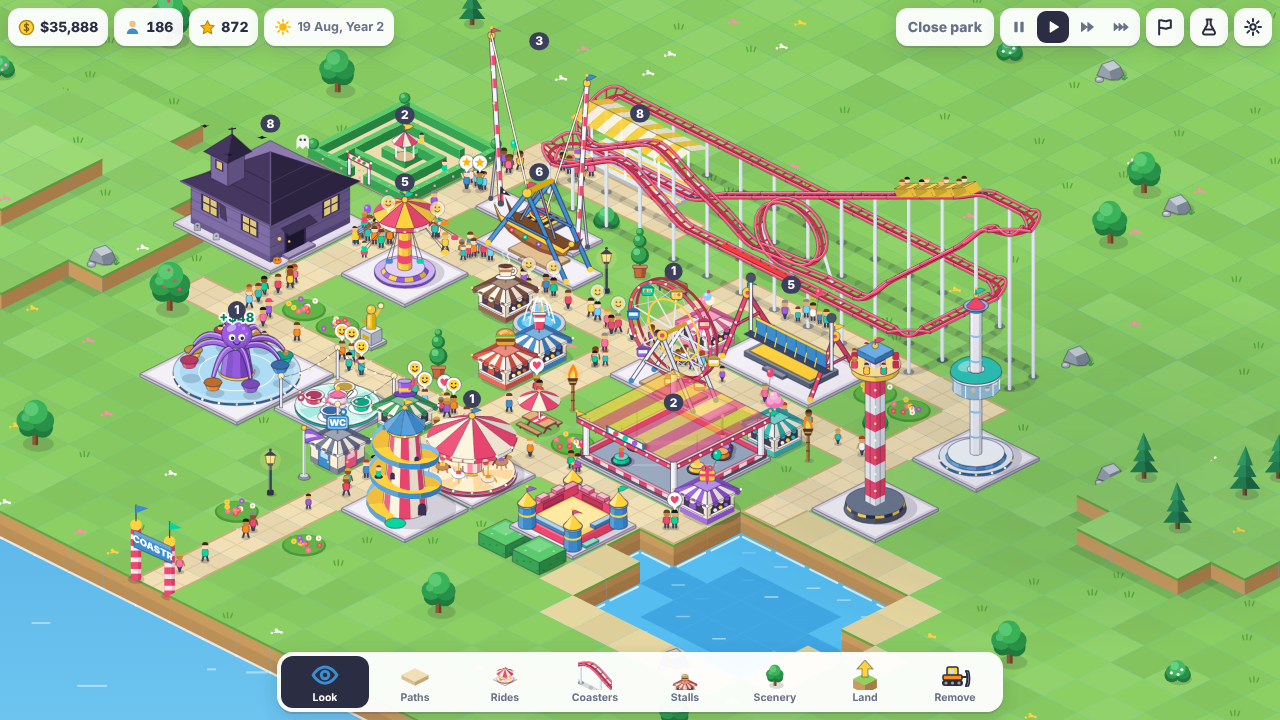
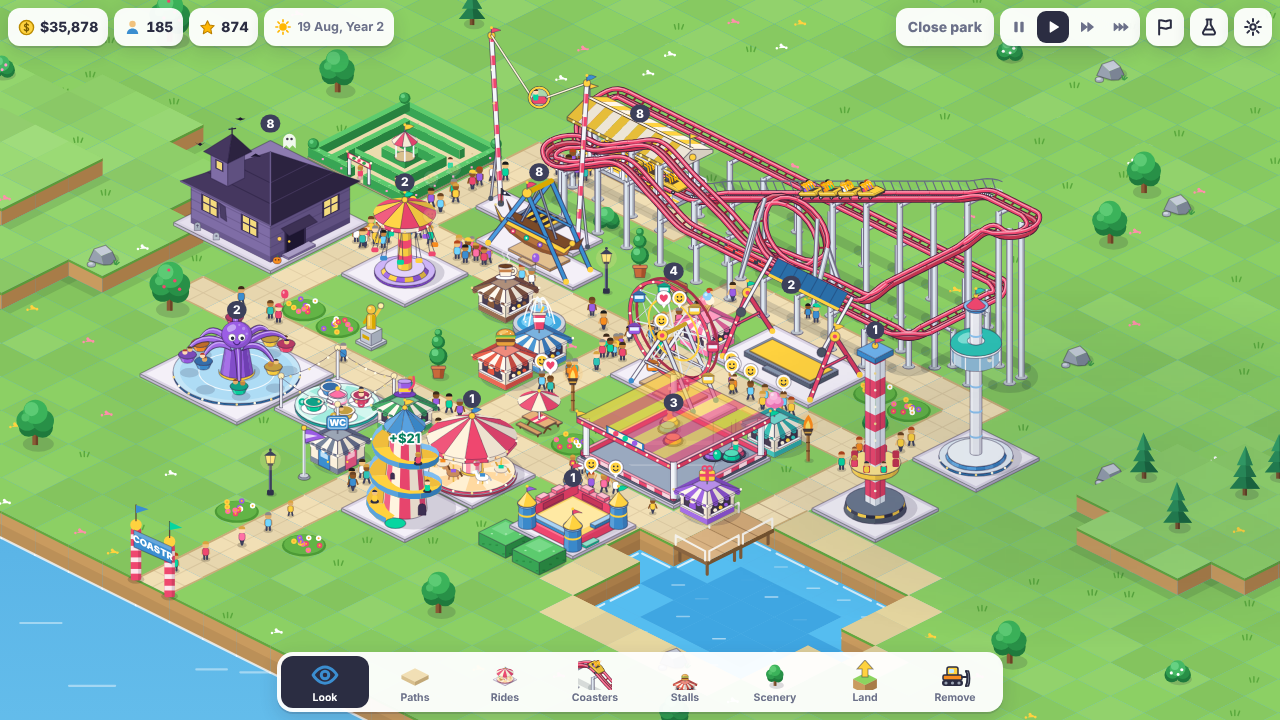
Update the Toki notes, README, project notes, cover and screenshots
Claude-Session: https://claude.ai/code/session_013AYg2Xi5gSKx1SKtetuCko

diff --git a/CLAUDE.md b/CLAUDE.md
@@ -17,7 +17,7 @@ python3 -m http.server 8000 --directory game
 - `world.js`, `coaster.js`, `guests.js`, `sim.js` and `data.js` never touch the DOM, so they can be
   imported in Node to build a park in code, call `tick(dt)` and inspect the result. Use this for
   balance and save/load checks.
-- In the browser, `window.__coastr` exposes `S` (state), `ui`, `cam`, `startGame(mode, fresh, scenario)`
+- In the browser, `window.__coastr` exposes `S` (state), `ui`, `cam`, `look`, `startGame(mode, fresh, scenario)`
   and `at(x, y)` (screen position of a tile, as `[x, y]`). Handy for driving the game from Playwright.
   `mode` is `'career'` or `'sandbox'`; `scenario` is an id from `SCENARIOS` in `data.js`.
 - To look at a single sprite, import `sprites.js` in the page and draw it on a canvas of your own.
@@ -97,8 +97,13 @@ TOKI_KEY="$TOKI_KEY" node /tmp/toki-upload.mjs .
 **State**
 - All game state lives in the single mutable object `S` in `world.js`. Change it through the
   functions there, which return `{ ok }` or `{ ok: false, why: 'e_...' }`; `why` is an i18n key.
-- Bump `S.pv` whenever paths, objects or open/closed states change. The guest path-finding cache
-  and the "not next to a path" warnings depend on it.
+- Bump `S.pv` whenever paths, objects or open/closed states change. The guest path-finding cache,
+  the "not next to a path" warnings, the queue lines and the kept ground picture depend on it.
+- `S.path` holds 0 (none), 1 (path) or 2 (queue line). A path on a water tile is a bridge: guests
+  walk at `walkH(i)` (one level above the water's bed), so use `walkH` for anything about where
+  feet are, not `S.h`.
+- Events (`S.event`), the year's tally (`S.yr`), awards (`S.awards`) and each ride's birthday
+  (`o.born`, used by `buzz()` in `guests.js`) are part of the saved state.
 - `events` (in `world.js`) queues things for the UI: goals, research, achievements, month end.
 
 **Coasters**
@@ -110,7 +115,13 @@ TOKI_KEY="$TOKI_KEY" node /tmp/toki-upload.mjs .
 - The renderer draws a multi-tile piece in parts, one per tile, so trains and scenery sort correctly
   (`parts` in `buildGeo`). Cached drawing geometry is rebuilt when `S.tv` changes (terrain or water).
 - In the builder, `ui.cands` holds the choices shown as round buttons on the map; `builderAct` is
-  the one place every builder action goes through (buttons, map buttons and keys).
+  the one place every builder action goes through (buttons, map buttons and keys). `ui.pick` is the
+  piece tapped for changing; `alterPiece` and `cutAfter` (`coaster.js`) do the work.
+- Several trains: `c.trains` (1 to `maxTrains(c)`), each train out on the track is an entry
+  `{ t, riders }` in `c.runs` (`updateTrains` in `sim.js`). `c.riders` is everyone on all of them.
+  `c.runs` is not saved.
+- Track and train pictures are in `track.js`. Its geometry cache (`piece.geo`) must hold everything
+  that can be worked out once; drawing a piece should be a handful of fills and strokes.
 - Edit tracks through `addPiece` / `undoPiece` / `autoFinish`, which also clear the cached drawing
   geometry (`piece.geo`) and re-register tiles in `S.trk`.
 
@@ -158,6 +169,16 @@ TOKI_KEY="$TOKI_KEY" node /tmp/toki-upload.mjs .
   previews, badges, map buttons) are drawn after that layer, in `drawOverlays`.
 - Sprites and tiles run every frame for everything on screen: no `shadowBlur`, no `filter`, no
   per-frame canvas creation, and no gradients in scenery.
+- Speed (`render.js`, `main.js`): the backdrop and all ground tiles are drawn once into a picture
+  a quarter larger than the screen (`drawGround`) and copied each frame; it is redrawn when the
+  camera leaves it, the zoom settles, or `S.tv` / `S.pv` change. Only tiles marked in `occl` (higher
+  than ground just behind them) are drawn again in order, so they can still hide things. Anything
+  in `drawTile` that moves must cope with `time < 0`, which means "for the kept picture".
+  `look.ground = false` switches the picture off for comparing. `look.q` (0 to 3) lowers the
+  drawing resolution and drops small details; `tuneQuality` in `main.js` sets it from measured
+  frame times unless `look.auto` is false. Set `look.auto = false` in tests that compare pictures.
+- Tried and dropped: keeping each ride as its own picture refreshed every few frames. Uploading the
+  changed pictures cost more than drawing the rides.
 - `cover.png` and `shots/*.png` were captured from the running game at 1280x720.
 
 **Scope**

diff --git a/README.md b/README.md
@@ -9,14 +9,18 @@ Play it on Toki: https://playtoki.app/game/coastr
 
 - **Coaster builder**: four coaster types (mini, wooden, steel, launch) with lift hills, gentle and
   steep slopes, tight and wide turns, banking, loops, corkscrews, boosters and brakes. You build by
-  tapping arrows on the map at the end of the track (or with the arrow keys). Ratings for excitement,
-  intensity and nausea are worked out from the track itself the moment the circuit is closed; red dots
-  show where a track is too rough. Each coaster can be painted and its train followed by the camera.
+  tapping arrows on the map at the end of the track (or with the arrow keys), and change a finished
+  track by tapping one of its pieces. Ratings for excitement, intensity and nausea are worked out
+  from the track itself the moment the circuit is closed; red dots show where a track is too rough.
+  Each coaster can be painted, run up to three trains, and have its train followed by the camera.
 - **Four scenarios** on different maps and in different looks (meadow, lagoon, desert, snowy
   mountain), each with its own goals and three stars to earn, plus a **sandbox** on any map with
   everything unlocked.
 - **Park management**: guests with hunger, thirst, energy and opinions; ride and ticket prices;
-  loans, advertising and research.
+  loans, advertising and research. Events (holidays, heat waves, coaster fans, a critic), rides
+  that are the talk of the park when new and want renovating when old, and awards every year.
+- Paths cross water as bridges; queue lines in front of rides hold the waiting guests.
+- An overview map and a list of all rides, one tap away.
 - A 60 by 60 tile park with land shaping and water, 18 kinds of scenery, 15 flat rides and 8 stalls.
 - **A living park**: day and night with lights, rain and snow, an evening firework show, guests who
   show what they think, queues you can see.
@@ -61,7 +65,10 @@ shows the game. There is no build step and no test suite; run the game to check 
 | `game/js/coaster.js` | Track pieces, track geometry, physics and ratings |
 | `game/js/guests.js` | Guest behaviour and path finding |
 | `game/js/sim.js` | Time, ride cycles, money, research, goals and stars, weather, day and night |
-| `game/js/render.js`, `sprites.js` | Isometric drawing, themes, night lighting |
+| `game/js/render.js` | The frame: ground, depth sorting, guests, night lighting, overlays, overview map |
+| `game/js/sprites.js` | Pictures of rides, stalls and scenery |
+| `game/js/track.js` | Pictures of coaster tracks, stations and trains |
+| `game/js/iso.js` | Shared isometric maths and colour helpers |
 | `game/js/fx.js` | Particles, floating numbers, confetti, fireworks, rain and snow |
 | `game/js/ui.js` | Toolbar, panels, coaster builder, mouse and touch input |
 | `game/js/i18n.js` | All text, English and German |
